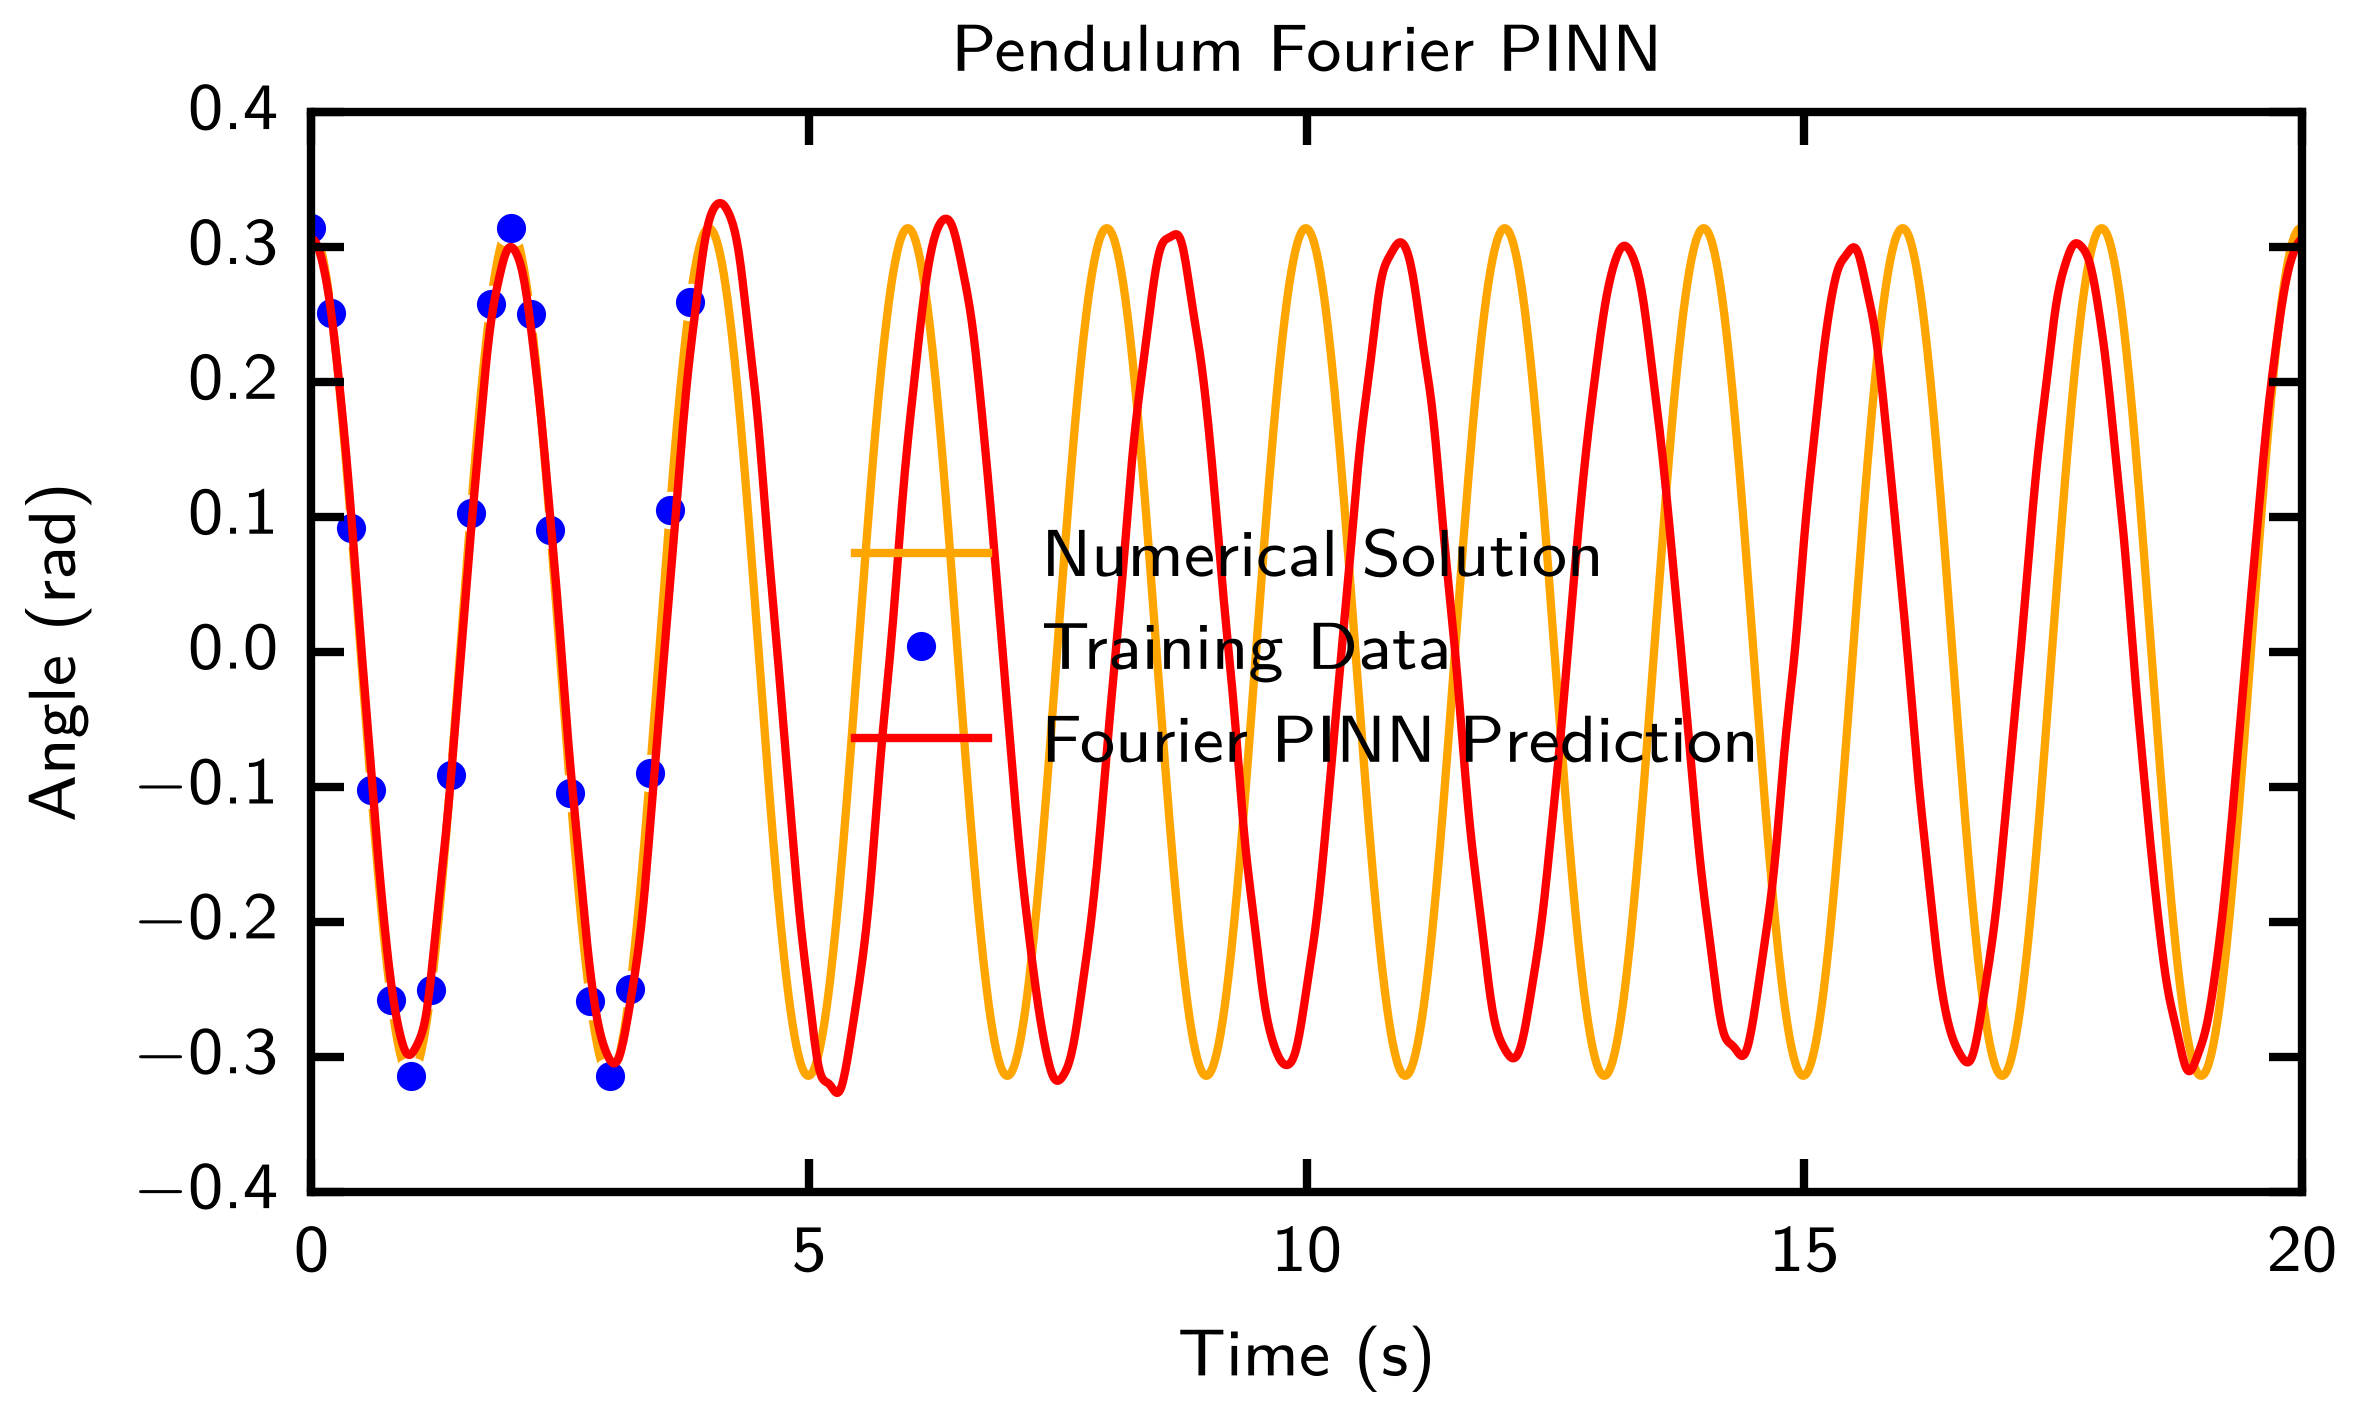
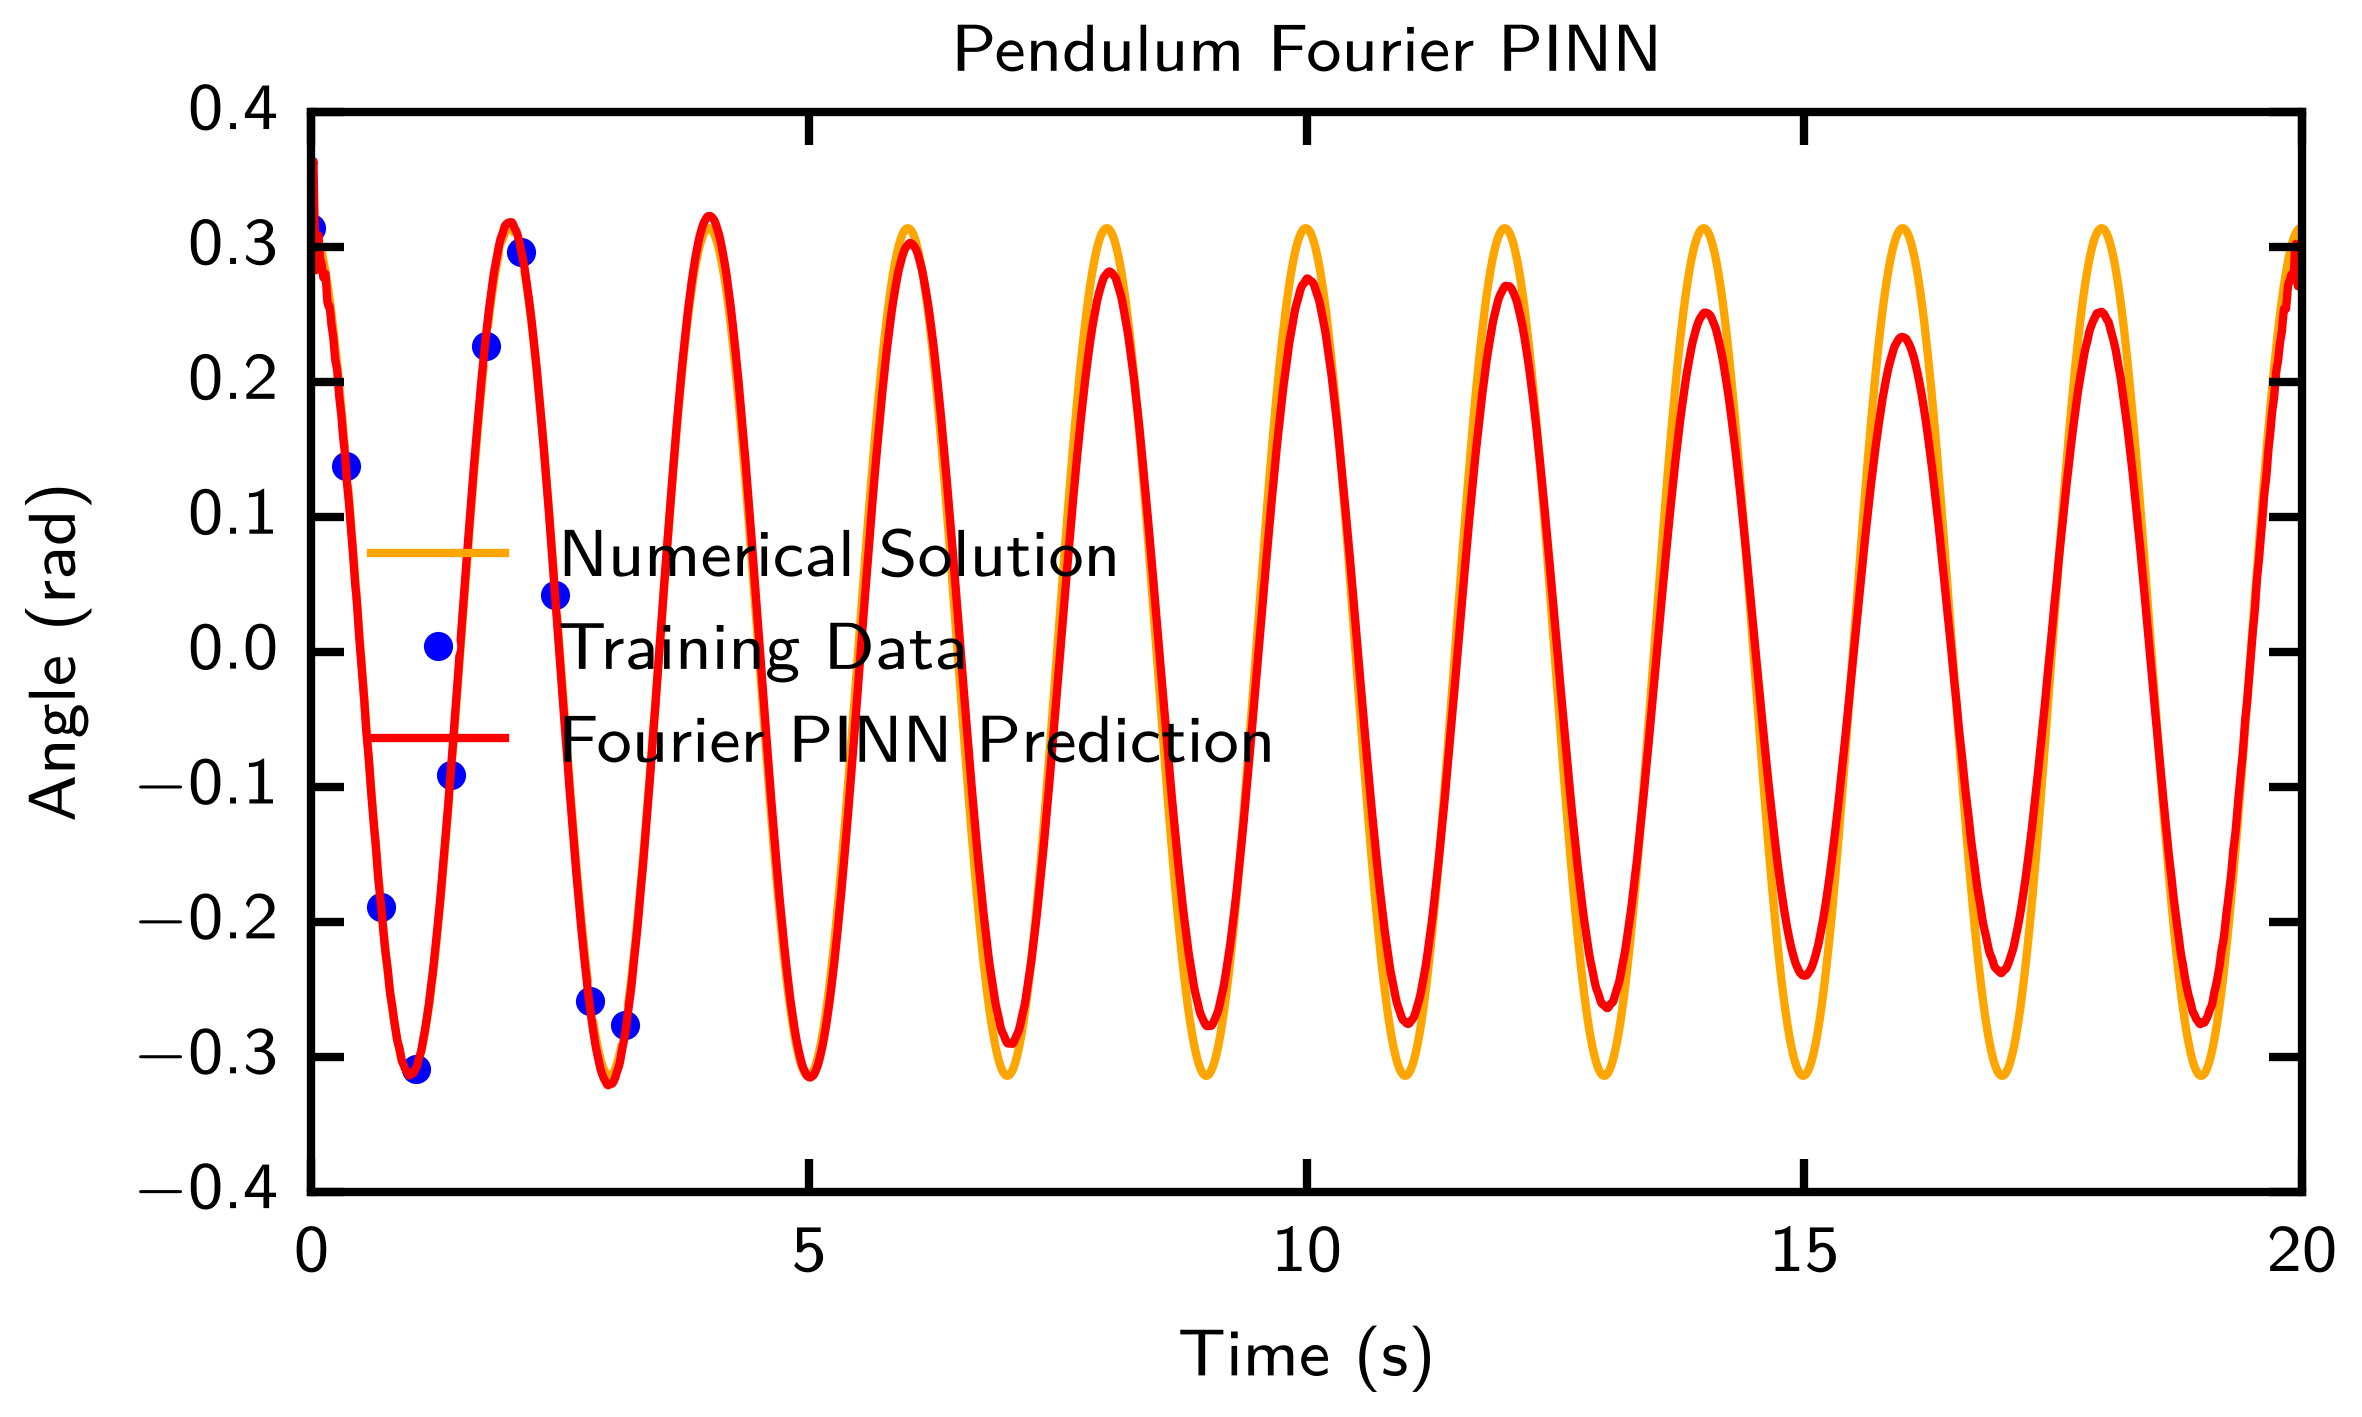
update PINNs

diff --git a/fPINNs/fpinn.py b/fPINNs/fpinn.py
@@ -86,8 +86,8 @@ LOG_FILE = OUTPUT_DIR / "FPINN_002.log"
 SEED = 0
 EPOCHS = 200_000
 SNAPSHOT_EVERY = 1_000
-PRINT_EVERY = 1_000
-MAX_PHYSICS_MODES = 128
+PRINT_EVERY = 100
+MAX_PHYSICS_MODES = 512
 
 WARMUP_EPOCHS = 5_000
 PHYSICS_RAMP_EPOCHS = 20_000
@@ -97,9 +97,9 @@ LAMBDA_PHYSICS = 1e0
 LAMBDA_INITIAL = 1e1
 LAMBDA_ENERGY = 1e-3
 
-DATA_STOP = 400
-DATA_STEP = 20
-LEARNING_RATE_NETWORK = 1e-4
+DATA_STOP = 350
+DATA_STEP = 35
+LEARNING_RATE_NETWORK = 1e-3
 LEARNING_RATE_SPECTRUM = 1e-3
 LEARNING_RATE_ALPHA = 2e-4
 

diff --git a/fPINNs/tpinn.py b/fPINNs/tpinn.py
@@ -76,14 +76,14 @@ OUTPUT_PREFIX = "tpinn"
 LOG_FILE = OUTPUT_DIR / "TPINN.log"
 
 SEED = 0
-EPOCHS = 200000
+EPOCHS = 100000
 SNAPSHOT_EVERY = 1000
-PRINT_EVERY = 1000
+PRINT_EVERY = 100
 PHYSICS_POINTS = 2000
 PREDICTION_POINTS = 2000
 
-DATA_STOP = 400
-DATA_STEP = 20
+DATA_STOP = 350
+DATA_STEP = 35
 
 LEARNING_RATE = 1e-3
 LAMBDA_DATA = 1e1
